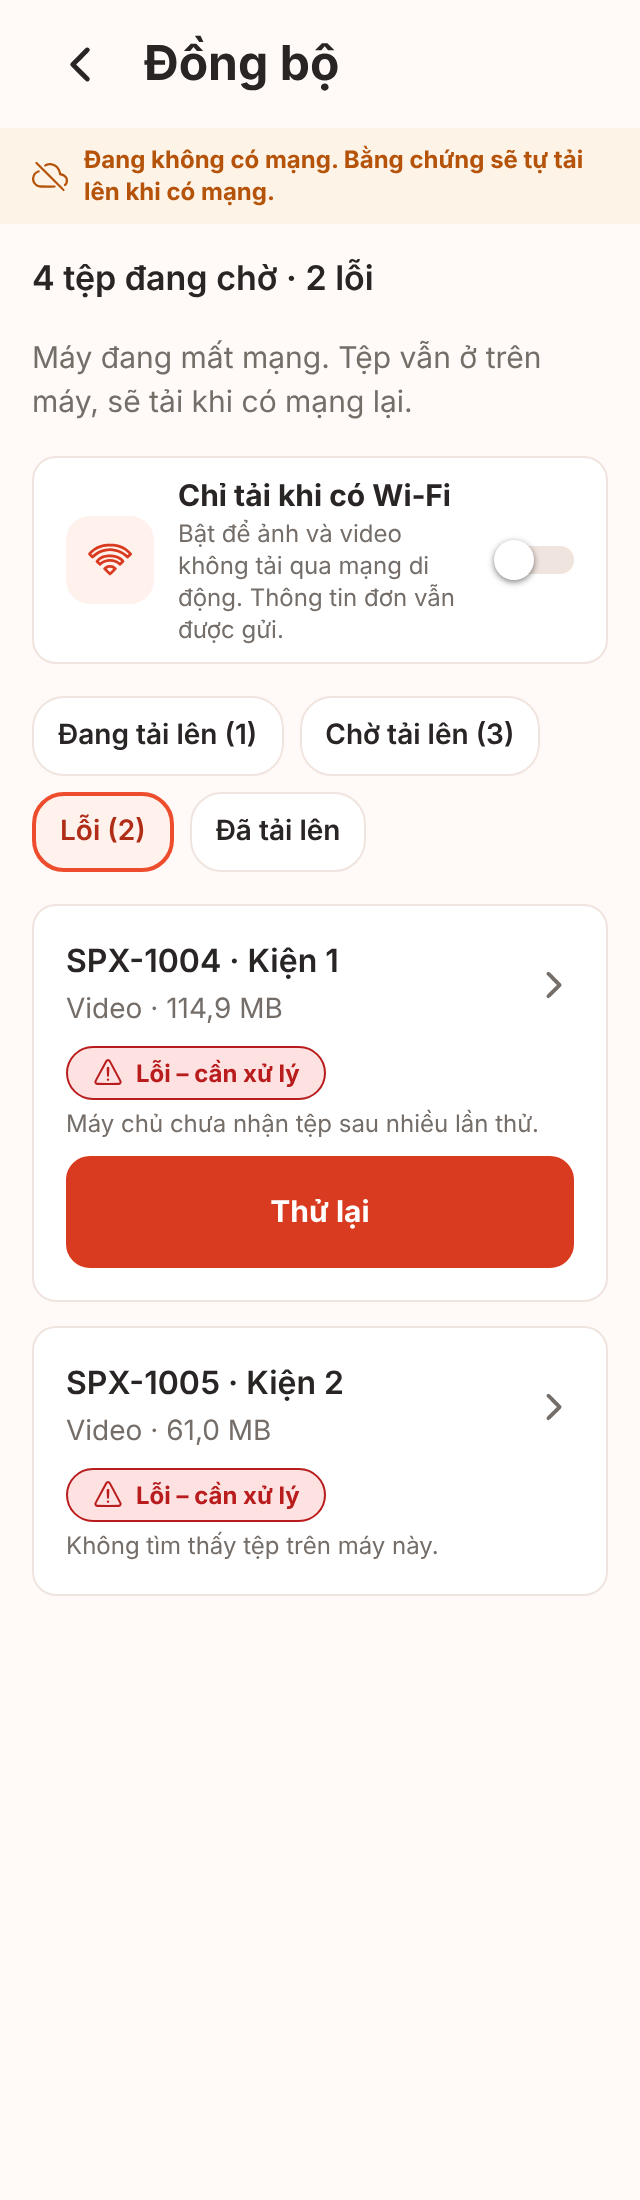
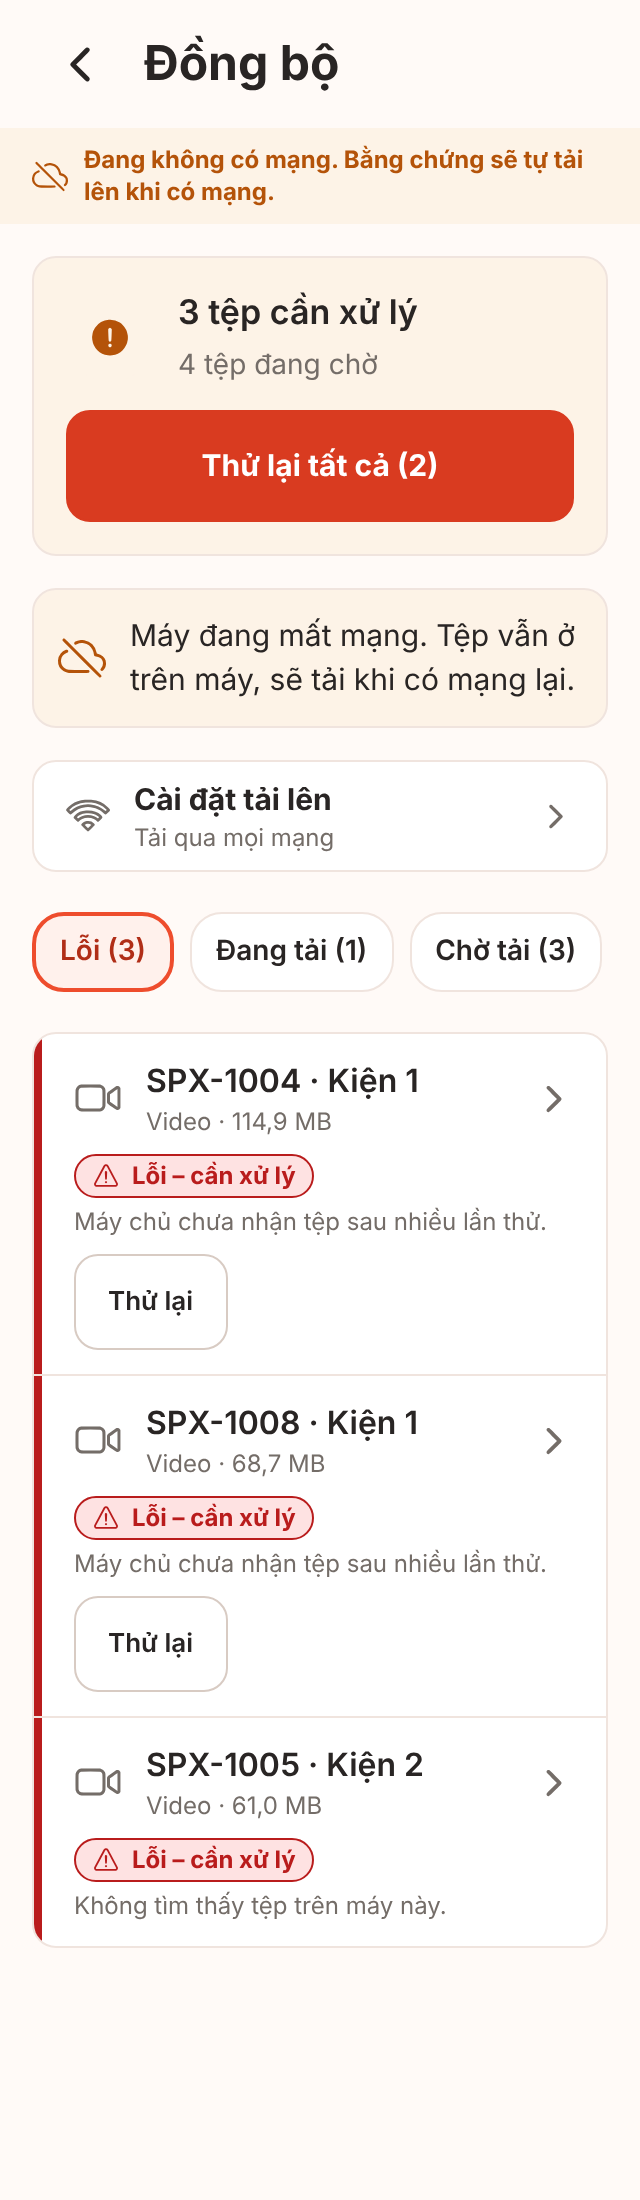
docs: cập nhật ảnh Trung tâm đồng bộ cho bản Gói A (sau)
Claude-Session: https://claude.ai/code/session_01EqYbDgQebWwJDZZaEixKbZ

diff --git a/docs/assets/screens/sync-ux-redesign/README.md b/docs/assets/screens/sync-ux-redesign/README.md
@@ -3,7 +3,7 @@
 Chụp bằng bản **web** react-native-web, cổng giả, phiên `signed_in`. **Không phải ảnh iOS/Android**: font, vùng an toàn, bóng, chữ lớn hệ thống và kéo-làm-mới thật khác thiết bị thật.
 
 - `before-*`: nhánh `docs/ux-architecture-redesign`.
-- `after-*`: nhánh `feat/sync-ux-redesign`.
+- `after-*`: nhánh `feat/sync-ux-redesign` (**đã gồm Gói A**: khối trạng thái tổng, hàng Cài đặt tải lên mở sheet, chip xếp Lỗi trước, hàng tệp gọn có vạch trạng thái). Ảnh `after-*` chụp ở 390x1100 và 320x1100 (kể cả `after-empty`, trong khi `before-empty` là 390x844 / 320x568).
 
 | Tệp | Trạng thái | Cách có được |
 |---|---|---|
@@ -24,3 +24,5 @@ Các trạng thái bổ sung (cùng dữ liệu vá, thêm một tệp do tài k
 | `before|after-uploaded-*` | Bộ lọc "Đã tải lên" (tệp đã xác minh, bấm cả hàng mở hồ sơ) | `/sync?data`, bấm chip "Đã tải lên" |
 
 Chưa chụp được: đang chờ Wi‑Fi, kéo để làm mới thật, màn Chi tiết lỗi (UI-F02). Chúng được kiểm bằng test.
+
+Ảnh thêm cho bản sau: `after-settings-*` (sheet **Cài đặt tải lên** mở từ hàng cài đặt, chứa câu "Ứng dụng chỉ tải lên khi đang mở…" và công tắc Chỉ tải khi có Wi‑Fi; không có ảnh `before` tương ứng vì bản cũ để công tắc ở đầu màn). Bản sau dùng bộ dữ liệu vá có thêm một tệp lỗi thứ hai (7 tệp) để thấy nút "Thử lại tất cả". Hàng chip bản sau cuộn ngang nhẹ: ở 390dp chip "Đã tải lên" bị cắt mép phải.
